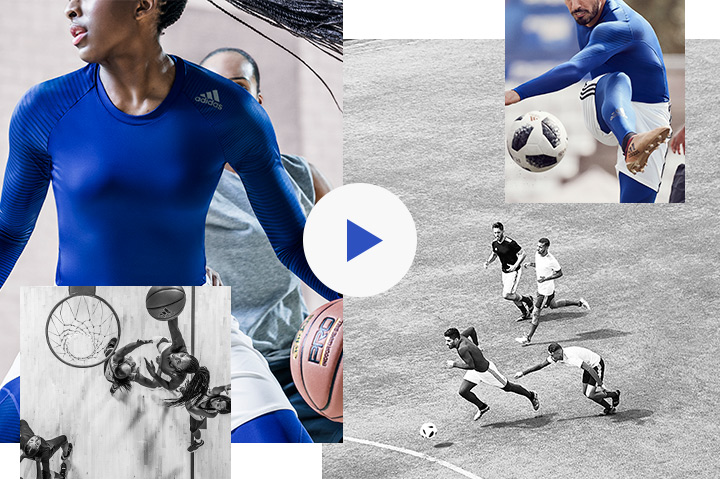
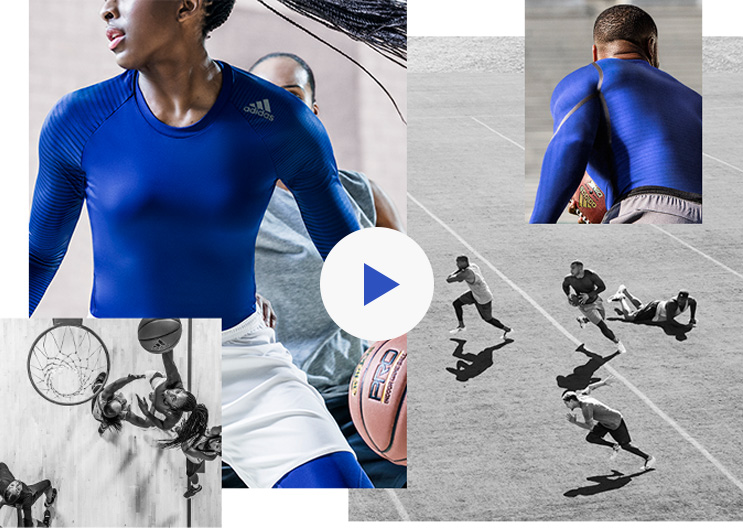
알파스킨 수정

diff --git a/app/html/reebok/event/aboutus/campaign/floatride/1807/build/index.html b/app/html/reebok/event/aboutus/campaign/floatride/1807/build/index.html
@@ -162,7 +162,7 @@
 						</div>
 					</div>
 					<div class="box3">
-						<img src="/images/reebok/about/floatride/1807/img_3.jpg" alt="img_3">
+						<img src="/images/reebok/about/floatride/1807/img_3-2.jpg" alt="img_3">
 						<!-- <div class="txt">
 							<div class="btn">-->
 								<a href="http://www.positiveenergyrace.com/" target="_blank "style="display:inline-block;position: absolute;top:69.4%;left:47%;width:16%;height:2.5%;text-indent:-5000px;"></a>
